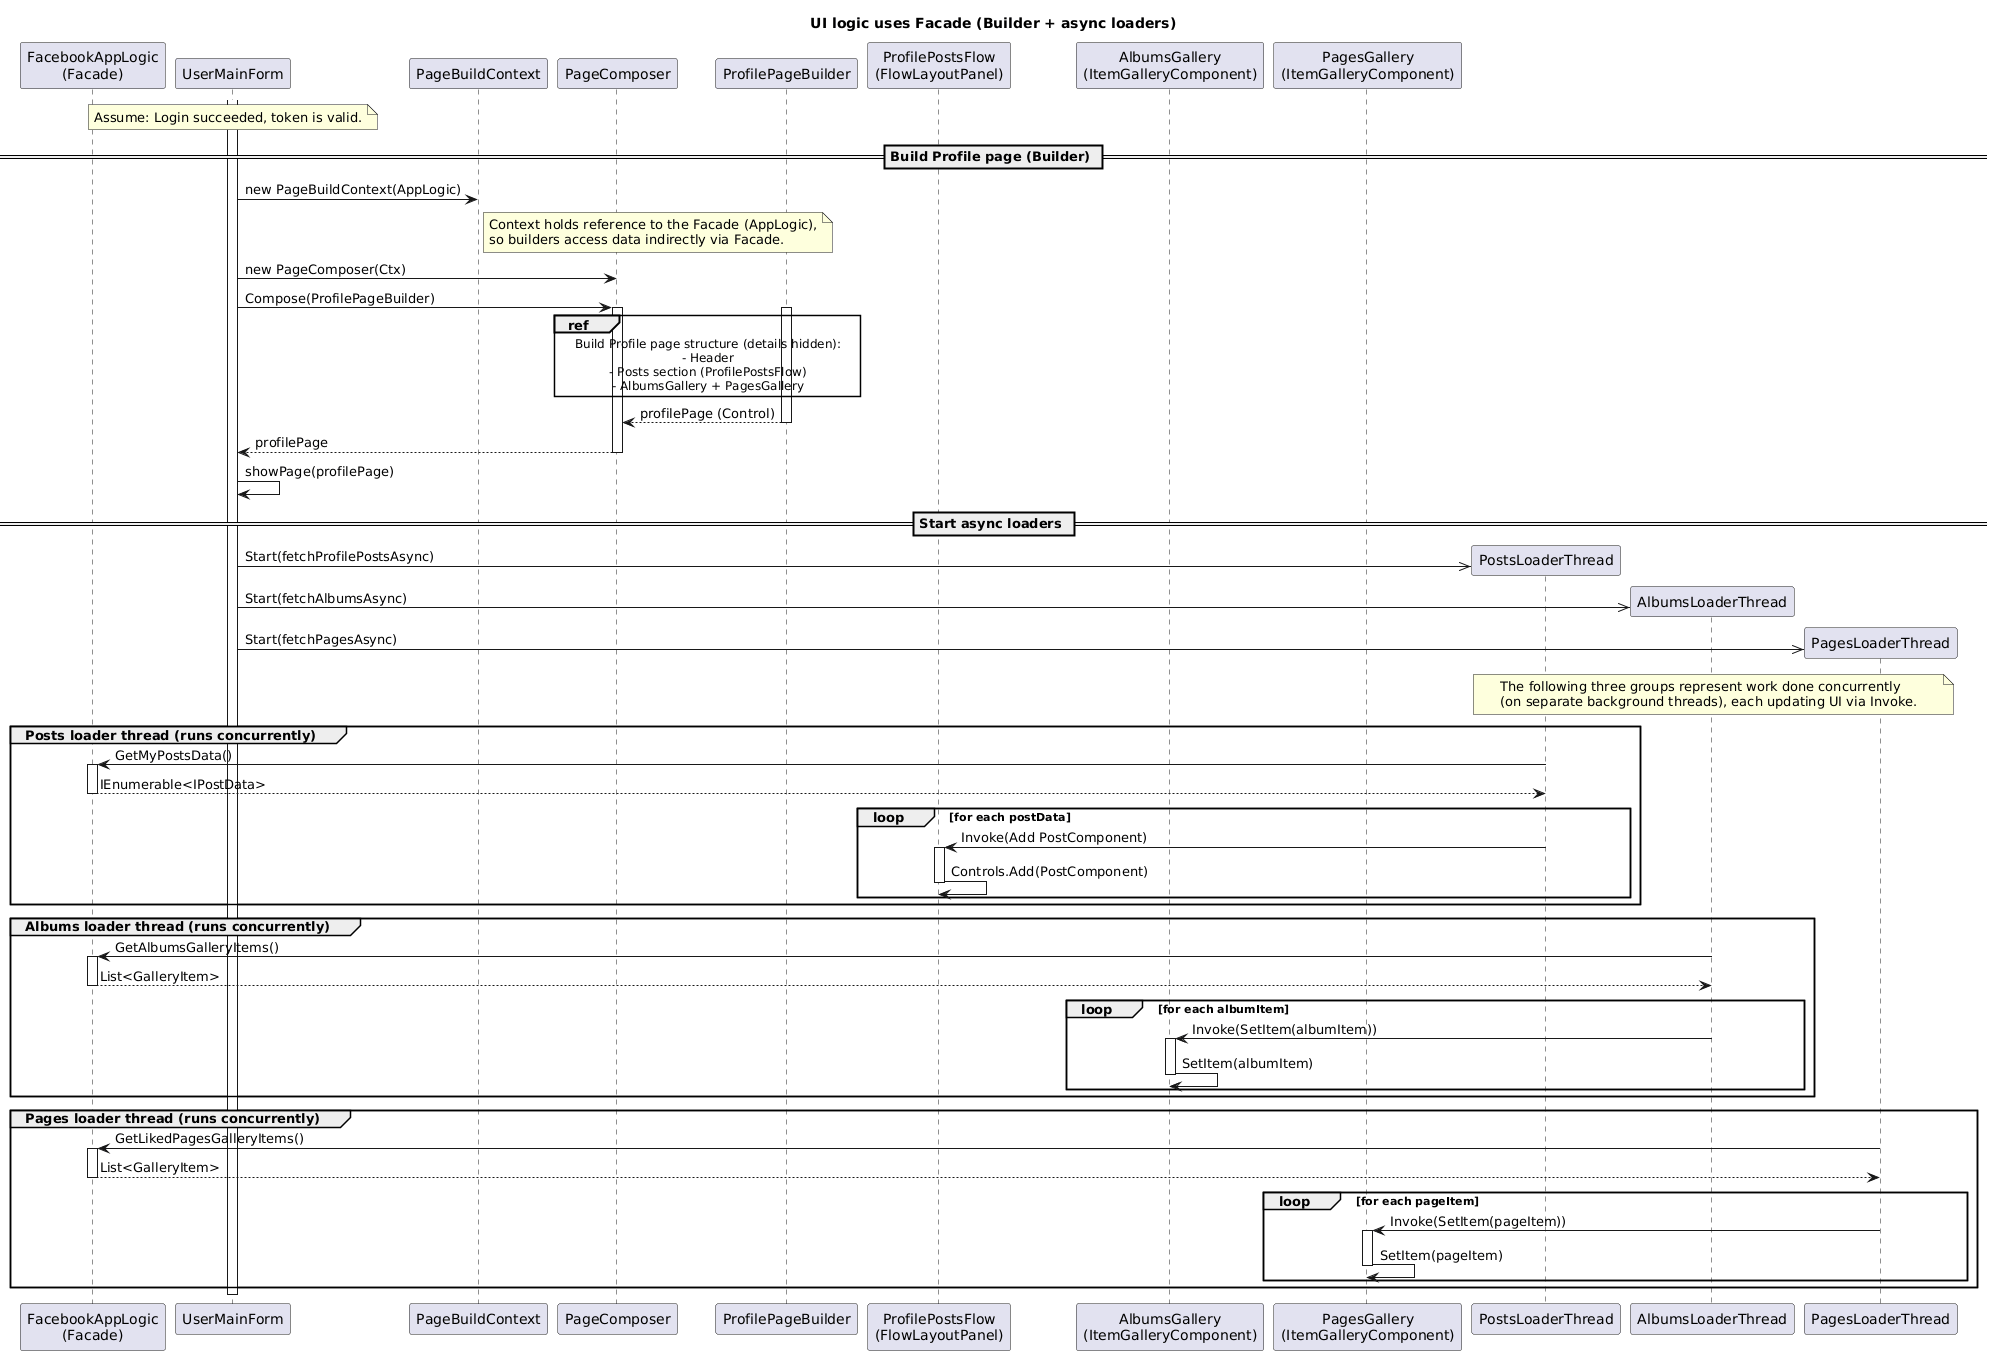
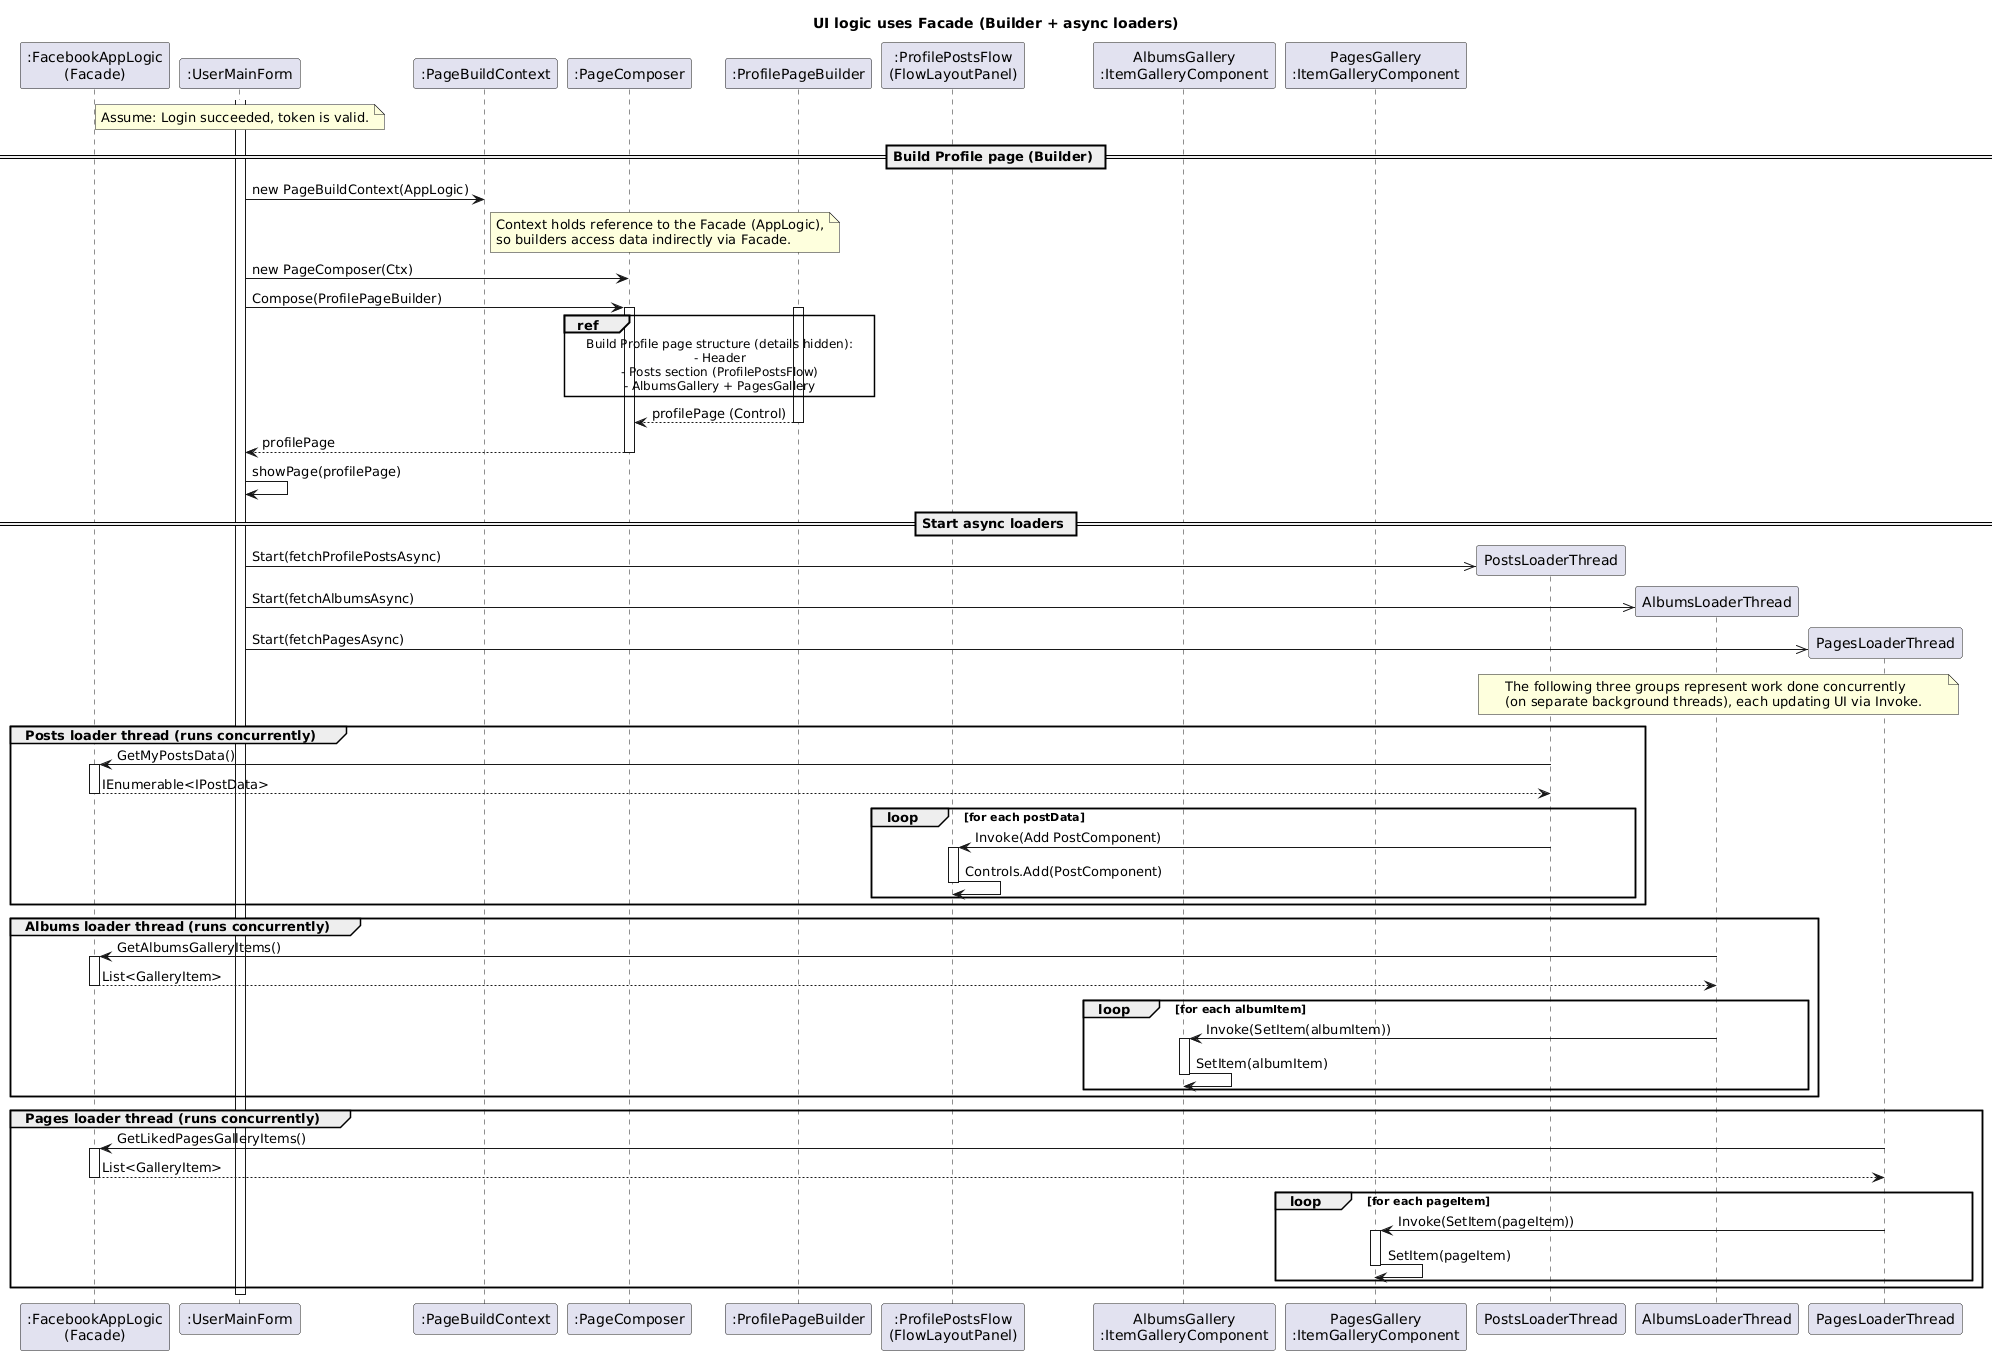
add builder as member in composer

diff --git a/FacebookMini/ui/PageBuilder/FeedPageBuilder.cs b/FacebookMini/ui/PageBuilder/FeedPageBuilder.cs
@@ -15,11 +15,6 @@ namespace FacebookMini.ui.PageBuilder
         private Label m_HeaderLabel;
         private FlowLayoutPanel m_PostsFlowPanel;
 
-        //public FeedPageBuilder(PageBuildContext i_Context)
-        //{
-        //    m_Context = i_Context;
-        //}
-
         public void Reset()
         {
             m_FeedPanel = new Panel { Dock = DockStyle.Fill };
@@ -41,7 +36,6 @@ namespace FacebookMini.ui.PageBuilder
 
             m_FeedPanel.Controls.Add(m_HeaderLabel);
         }
-
         public void BuildBody()
         {
             m_PostsFlowPanel = new FlowLayoutPanel
@@ -58,24 +52,6 @@ namespace FacebookMini.ui.PageBuilder
 
             m_PostsFlowPanel.Name = "feedPostsFlow";
         }
-
-        public void BindData()
-        {
-            IEnumerable<IPostData> feedPosts = m_Context.AppLogic.GetFriendsFeedPostsData();
-
-            foreach (IPostData postData in feedPosts)
-            {
-                PostComponent postControl = new PostComponent
-                {
-                    Margin = new Padding(5, 5, 5, 15),
-                    AppLogic = m_Context.AppLogic
-                };
-
-                postControl.SetPost(postData);
-                m_PostsFlowPanel.Controls.Add(postControl);
-            }
-        }
-
         public Control GetResult()
         {
             return m_FeedPanel;

diff --git a/FacebookMini/ui/UserMainForm.cs b/FacebookMini/ui/UserMainForm.cs
@@ -55,7 +55,7 @@ namespace FacebookMini.ui
         private void UserMainForm_Load(object sender, EventArgs e)
         {
             m_Context = new PageBuildContext(r_AppLogic, userPictureBoxTopBar);
-            m_Composer = new PageComposer(m_Context);
+            m_Composer = new PageComposer(m_Context, new ProfilePageBuilder());
 
             buildPages();
             showPage(m_ProfilePage);// defult
@@ -65,8 +65,10 @@ namespace FacebookMini.ui
 
         private void buildPages()
         {
-            m_ProfilePage = m_Composer.Compose(new ProfilePageBuilder());
-            m_FeedPage = m_Composer.Compose(new FeedPageBuilder());
+            m_ProfilePage = m_Composer.Compose();
+
+            m_Composer.Builder = new FeedPageBuilder();
+            m_FeedPage = m_Composer.Compose();
         }
 
 
@@ -259,7 +261,8 @@ namespace FacebookMini.ui
         
         private void buttonTagsAnalytics_Click(object sender, EventArgs e)
         {
-            m_TagsAnalyticsPage = m_Composer.Compose(new TagsAnalyticsPageBuilder());
+            m_Composer.Builder = new TagsAnalyticsPageBuilder();
+            m_TagsAnalyticsPage = m_Composer.Compose();
             showPage(m_TagsAnalyticsPage);
         }
 

diff --git a/FacebookMini/ui/PageBuilder/PageComposer.cs b/FacebookMini/ui/PageBuilder/PageComposer.cs
@@ -12,19 +12,22 @@ namespace FacebookMini.ui.PageBuilder
     public class PageComposer
     {
         private readonly PageBuildContext r_Context;
+        public IPageBuilder Builder { get; set; }
 
-        public PageComposer(PageBuildContext i_Context)
+
+        public PageComposer(PageBuildContext i_Context, IPageBuilder i_Builder)
         {
             r_Context = i_Context;
+            Builder = i_Builder;
         }
 
-        public Control Compose(IPageBuilder i_Builder)
+        public Control Compose()
         {
-            i_Builder.Reset();
-            i_Builder.DeliverContext(r_Context);
-            i_Builder.BuildHeader();
-            i_Builder.BuildBody();
-            return i_Builder.GetResult();
+            Builder.Reset();
+            Builder.DeliverContext(r_Context);
+            Builder.BuildHeader();
+            Builder.BuildBody();
+            return Builder.GetResult();
         }
     }
 }
